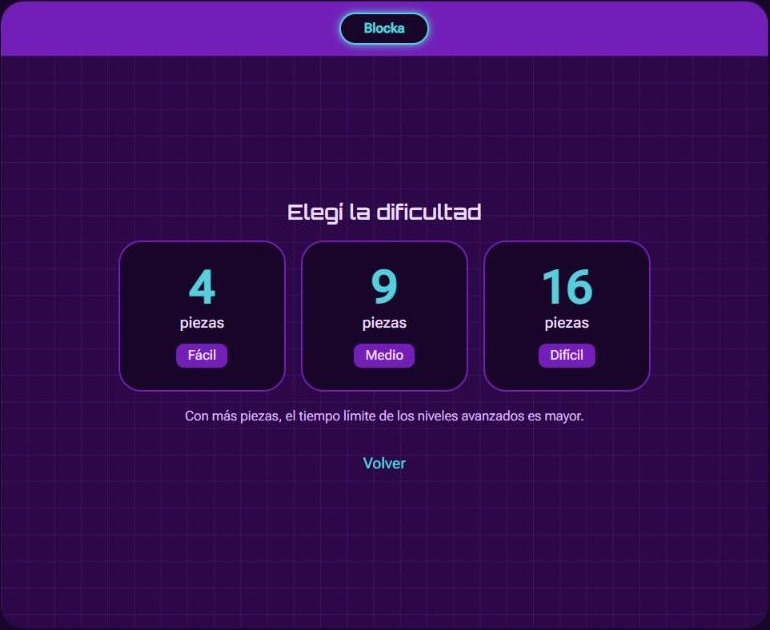
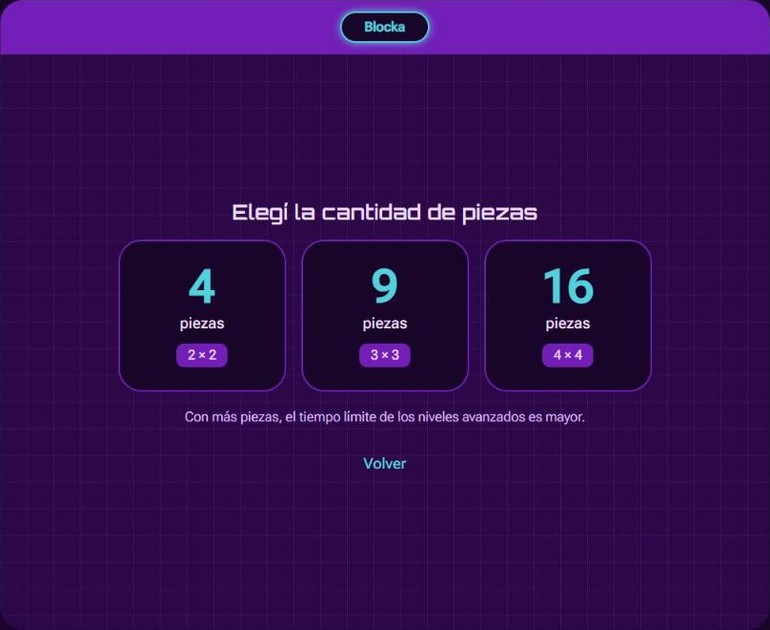
blocka: capturas de la galería con el modo Normal/Difícil

diff --git a/tp3/js/blocka.js b/tp3/js/blocka.js
@@ -1416,8 +1416,9 @@ canvas.addEventListener('blur', () => { if (nivelActivo) dibujar(); });
 // card del juego (770:630), no 16:9 como las del Peg: blocka.css ajusta la
 // galería a esa proporción.
 const FOTOS_GALERIA_BLOCKA = [
-  { src: 'assets/img/blocka-inicio.jpg', alt: 'Pantalla de inicio de Blocka, con la tabla de récords por nivel y los botones para ver cada dificultad.' },
-  { src: 'assets/img/blocka-dificultad.jpg', alt: 'Pantalla para elegir la dificultad: 4, 9 o 16 piezas.' },
+  { src: 'assets/img/blocka-inicio.jpg', alt: 'Pantalla de inicio de Blocka, con la tabla de récords por nivel y los botones para ver los de cada cantidad de piezas y cada modo.' },
+  { src: 'assets/img/blocka-dificultad.jpg', alt: 'Pantalla para elegir la cantidad de piezas: 4, 9 o 16.' },
+  { src: 'assets/img/blocka-modo.jpg', alt: 'Pantalla para elegir el modo: Normal, con el filtro fijo de cada nivel, o Difícil, con un filtro sorpresa.' },
   { src: 'assets/img/blocka-sorteo.jpg', alt: 'La tragamonedas del sorteo, con tres rodillos que frenan en la misma imagen, la de Capitana Marvel.' },
   { src: 'assets/img/blocka-4-piezas.jpg', alt: 'Nivel 1 con 4 piezas en escala de grises: una imagen de Capitana Marvel cortada en cuatro partes giradas.' },
   { src: 'assets/img/blocka-9-piezas.jpg', alt: 'Nivel 2 con 9 piezas en negativo (Spider-Man), con una parte fijada por Ayudita y el reloj corriendo contra el tiempo límite.' },

diff --git a/tp3/DECISIONES.md b/tp3/DECISIONES.md
@@ -748,6 +748,14 @@ Se corrió el código real del juego en el navegador sobre cada imagen con 4, 9 
   `blocka-derrota.jpg` y `blocka-victoria.jpg`, en `tp3/assets/img/`, de 60 a
   93 KB cada una. Cada una lleva su propio `alt` descriptivo. La lista está en
   `FOTOS_GALERIA_BLOCKA` (`js/blocka.js`).
+- **Actualización (modo Normal y Difícil):** se rehicieron `blocka-inicio.jpg`
+  (la tabla de récords suma las píldoras Normal / Difícil) y
+  `blocka-dificultad.jpg` (las tarjetas muestran la grilla en vez de
+  Fácil/Medio/Difícil), y se sumó `blocka-modo.jpg` (la pantalla para elegir el
+  modo), después de la de piezas: la galería pasa a 9 capturas. Mismo método
+  (card recortada a 770x630, sin el recuadro de foco, récords de ejemplo que
+  después se borraron), pero tomadas al 100 % de zoom y achicadas al recortar,
+  porque ahora la card entra entera en la ventana.
 
 ### Solo la card del juego, sin el panel de Ayuda
 - **Qué:** la primera versión recortaba en 16:9 e incluía el panel lateral
